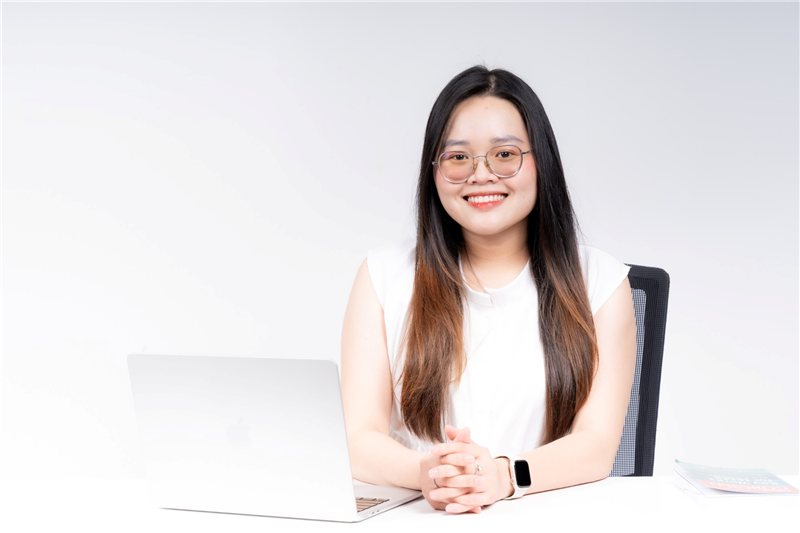
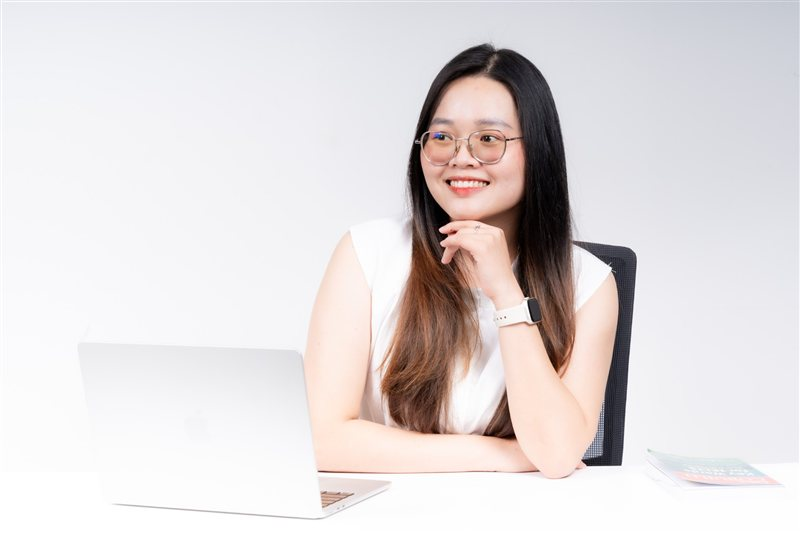
Đổi ảnh đầu trang sang ảnh ngồi bàn làm việc, đổi ảnh phần câu chuyện

Changed region(s): [[0.2812, 0.06, 1.0, 0.9906], [0.2188, 0.9306, 0.25, 0.9606], [0.1562, 0.9306, 0.1875, 0.9606]]

diff --git a/index.html b/index.html
@@ -281,7 +281,7 @@
         </div>
       </div>
       <div class="anh-hero">
-        <img src="anh/chan-dung.jpg" alt="Ms. Minh Thư mỉm cười, khoanh tay" width="800" height="1200">
+        <img src="anh/chan-dung.jpg" alt="Ms. Minh Thư mỉm cười, ngồi bên bàn làm việc" width="800" height="987">
         <i class="la la-1"></i><i class="la la-2"></i>
       </div>
     </div>
@@ -354,7 +354,7 @@
   <!-- 5. Câu chuyện -->
   <section class="chuyen" id="cau-chuyen" style="background:var(--nen-2)">
     <div class="khung">
-      <img src="anh/cau-chuyen.jpg" alt="Ms. Minh Thư ngồi bên bàn làm việc" width="800" height="533" loading="lazy">
+      <img src="anh/cau-chuyen.jpg" alt="Ms. Minh Thư ngồi bên bàn làm việc, chống cằm mỉm cười" width="800" height="533" loading="lazy">
       <div>
         <span class="nhan">Câu chuyện của mình</span>
         <h2 style="margin-top:12px">Từng bị chê tiếng Anh kém, mình đã trở thành “chị giáo” như thế nào?</h2>
